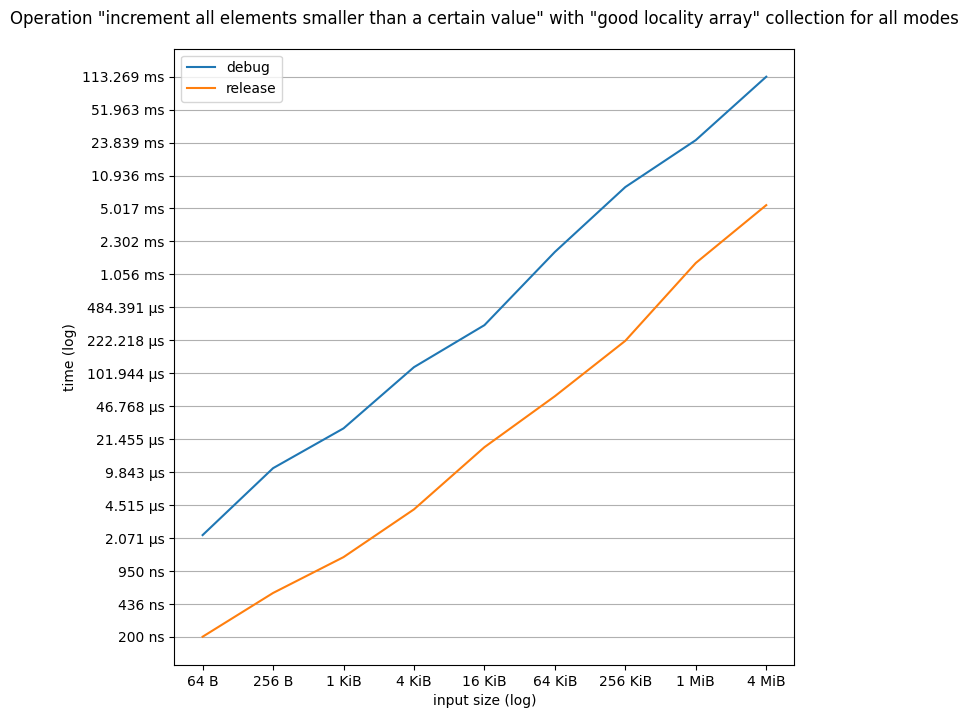
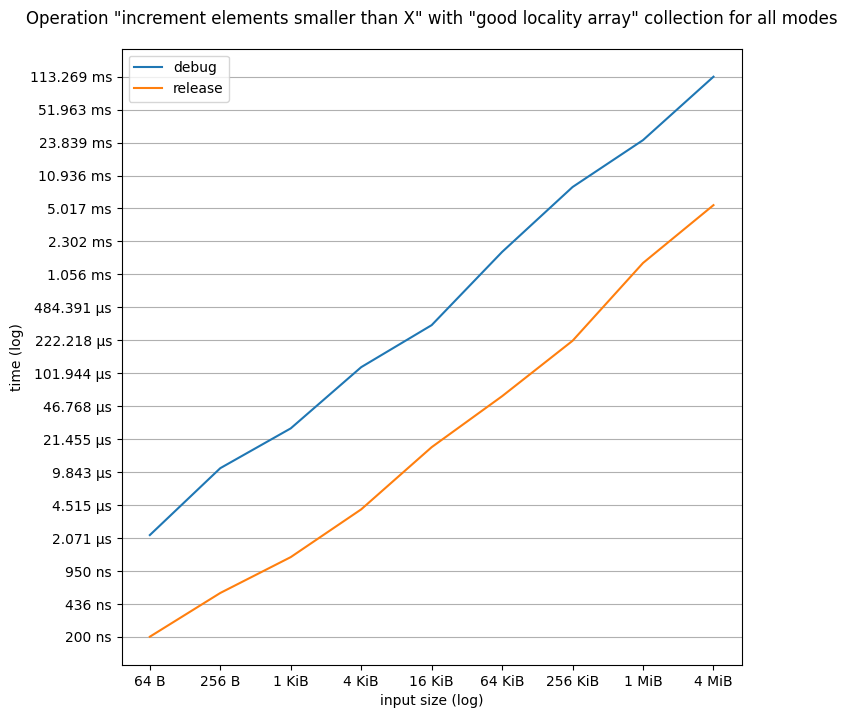
everything is written

diff --git a/paper/bczimmermann-313985-trab2.tex b/paper/bczimmermann-313985-trab2.tex
@@ -618,7 +618,132 @@ feitas na linguagem Python.
 
 \section{Resultados}
 
-\section{Conclusão}
+Em um aspecto geral, o \textit{array} ordenado (\textit{sorted-array} e a árvore
+binária ordenada (\textit{with-order-tree}) conseguiram a melhor performance no
+modo \textit{debug}. Enquanto isso, no modo \textit{release},
+\textit{sorted-array} e \textit{with-order-tree} conseguiram a melhor
+performance para \textit{find}, mas, para a operação \textit{inc-less-than},
+\textit{sorted-array} atingiu um tempo disparadamente menor. Generalizando, o
+``vencedor'' foi \textit{sorted-array}. Os resultados podem ser visualizados nos
+gráficos das figuras \ref{fig:collection find debug},
+\ref{fig:collection find release}, \ref{fig:collection inc less than debug} e
+\ref{fig:collection inc less than release}, em escala logarítmica nos dois
+eixos.
+
+\begin{figure}
+    \begin{center}
+        \includegraphics[width=15cm, keepaspectratio]
+        {../charts/collections-find-debug.png}
+    \end{center}
+    \caption{Operação \textit{find} no modo ``\textit{debug}''
+        (sem otimizações) para todas estruturas de dados}
+    \label{fig:collection find debug}
+\end{figure}
+
+\begin{figure}
+    \begin{center}
+        \includegraphics[width=15cm, keepaspectratio]
+        {../charts/collections-find-release.png}
+    \end{center}
+    \caption{Operação \textit{find} no modo ``\textit{release}''
+        (com otimizações) para todas estruturas de dados}
+    \label{fig:collection find release}
+\end{figure}
+
+\begin{figure}
+    \begin{center}
+        \includegraphics[width=16cm, keepaspectratio]
+        {../charts/collections-inc-less-than-debug.png}
+    \end{center}
+    \caption{Operação \textit{inc less than} no modo ``\textit{debug}''
+        (sem otimizações) para todas estruturas de dados}
+    \label{fig:collection inc less than debug}
+\end{figure}
+
+\begin{figure}
+    \begin{center}
+        \includegraphics[width=16cm, keepaspectratio]
+        {../charts/collections-inc-less-than-release.png}
+    \end{center}
+    \caption{Operação \textit{inc-less-than} no modo ``\textit{release}''
+        (com otimizações) para todas estruturas de dados}
+    \label{fig:collection inc less than release}
+\end{figure}
+
+Observando-se o gráfico da figura \ref{fig:collection find release},
+observa-se que a ordenação na árvore binária é sim uma grande vantagem para
+a operação de busca \textit{find}, ao comparar-se a versão com ordenamento e a
+sem ordenamento. No entanto, para a operação \textit{inc-less-than}, na figura
+\ref{fig:collection inc less than release}, observa-se que as duas versões da
+árvore tiveram performance bastante similar, e apesar da versão com ordenamento
+ter se saído um pouco melhor, não é algo significativo, e então, nessa operação,
+o ordenamento não aparenta trazer vantagem.
+
+Pode-se dizer que até há uma pequena vantagem ao usar ordenamento em árvores,
+na operação \textit{inc-less-than}, com entradas de tamanho até
+$16 KiB$, mas a partir de $64 KiB$, a performance das duas árvores converge.
+Possivelmente, isso ocorre porque com entradas maiores, a chance da árvore
+navegar por nodos em endereços em diferentes páginas é maior.
+
+Na figura \ref{fig:collection inc less than release}, também se pode notar que
+as versões sem ordenação do \textit{array} )(\textit{good-local-array},
+\textit{bad-local-array} e \textit{worse-local-array}) tiveram uma diferença
+significativa de performance entre a versão \textit{good-} e as versões
+\textit{bad-} e \textit{worse-}. Para $4MiB$, a versão \textit{good-} conseguiu
+$5.431 ms$, enquanto a versão \textit{bad-} atingiu $2.865 s$, e a versão
+\textit{worse-} atingiu $2.851 s$, e a diferença é consistente para os vários
+tamanhos de entrada usados.
+
+No entanto, percebe-se que entre a versão \textit{bad-} e a versão
+\textit{worse-} não há tanta diferença, e inclusive, para alguns tamanhos de
+entrada, a versão \textit{worse-} surpreendentemente performa com um pouco menos
+de tempo que a versão \textit{bad-}. Isso se repete na figura
+\ref{fig:collection find release}, onde em alguns casos a versão
+\textit{worse-} tem um desempenho melhor de forma levemente considerável,
+em relação à versão \textit{bad-}. A respeito desses dois \textit{arrays},
+também é notável que a partir do tamanho de entrada $4KiB$ (uma página),
+a curva do tempo desses fica mais íngreme.
+
+A lista encadeada \textit{linked-list} parece ter tido uma performance
+intermediária, e inclusive foi mais rápida que árvores ordenadas na operação
+\textit{inc-less-than} (figura \ref{fig:collection inc less than release}). No
+entanto, \textit{sorted-array} e \textit{good-local-array} ainda superaram a
+lista encadeada. É bom notar, contudo, que aqui se fala da execução com
+otimizações ligadas, porém, sem otimizações (\textit{debug}), as listas
+encadeadas superam \textit{good-local-array}
+(figura \ref{fig:collection find debug}).
+
+\FloatBarrier
+
+\section{Considerações Finais}
+
+Algumas conclusões interessantes podem ser feitas. Por exemplo, a partir do
+resultado de \textit{bad-local-array} e \textit{worse-local-array}, pode-se
+concluir que, se as páginas já estão sendo saltadas em uma grande quantidade
+($16$ no nosso caso), não faz muita diferença intercalar entre duas metades de
+um \textit{array} ou não, diferente do esperado. Uma explicação para tal é
+que o TLB do sistema não leva em conta a proximidade das páginas, na verdade,
+a vantagem está em endereços próximos em uma mesma página.
+
+Além disso, pode-se verificar que, apesar do \textit{sorted-array} saltar entre
+endereços muito distantes, a complexidade logarítimica da busca binária
+compensa, porque a quantidade de endereços visitados é muito menor do que a
+quantidade de endereços visitados por outros \textit{arrays}, por exemplo,
+que podem acabar vasculhando todos elementos. Na verdade, uma observação
+interessante é que a distância dos endereços da busca binária diminui a cada
+iteração, porque a janela da busca diminui, então não ocorrem tantos saltos de
+páginas como o esperado.
+
+Outro fato interessante é que a vantagem de uma árvore ordenada sobre uma
+árvore não-ordenada diminui e torna-se quase nula à medida em que se aumenta o
+número de páginas em função do tamanho da entrada na operação de incremento.
+É tentador associar isso à ideia de que a complexidade do algoritmo pode ser
+irrelevante diante de uma alta quantidade de \textit{page misses} na TLB, mas na
+realidade as duas complexidades não estão muito distantes: $O(max(m, n+m))$ versus
+$O(n + m)$, onde $n$ é o tamanho da árvore, $m$ é o valor solicitado, e contam
+como passos cada iteração.
+
+
 
 \nocite{*}
 \printbibliography

diff --git a/analysis/plot.py b/analysis/plot.py
@@ -142,7 +142,7 @@ def make_charts(rows: List[Row]) -> List[SizeTimeChart]:
             Operation(key='find', name='search for element'),
             Operation(
                 key='inc-less-than',
-                name='increment all elements smaller than a certain value') ]
+                name='increment elements smaller than X') ]
 
     create_collections = [
             Collection(
